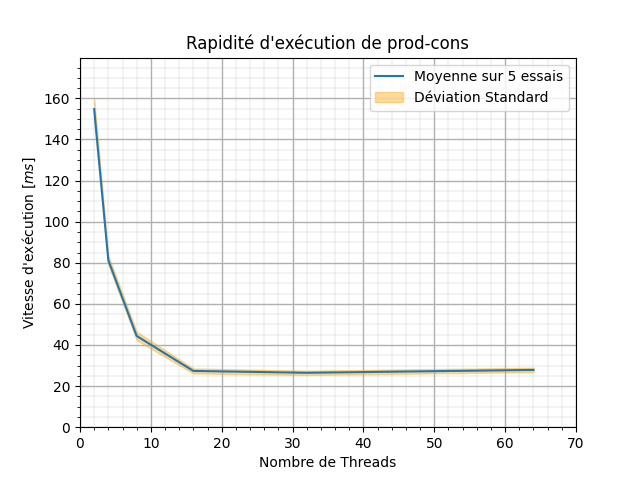
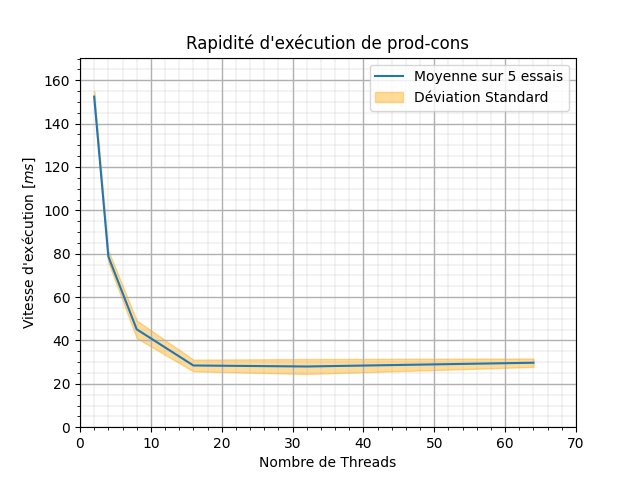
Tweak test

diff --git a/Inginious/P1/src/test-and-set.c b/Inginious/P1/src/test-and-set.c
@@ -32,7 +32,7 @@ void* myFunc(void* arg){
 
     for(int j = 0; j < 6400/NTHREADS; j++){
         lock();
-        for(int a = 0; a <1000000; a++){
+        for(int a = 0; a <10000; a++){
             // DO
         }
         unlock();

diff --git a/Inginious/P1/src/test-test-and-set.c b/Inginious/P1/src/test-test-and-set.c
@@ -48,7 +48,7 @@ void* myFunc(void* arg){
 
     for(int j = 0; j < 6400/NTHREADS; j++){
         lock();
-        for(int a = 0; a <1000000; a++){
+        for(int a = 0; a <10000; a++){
             // DO
         }
         unlock();

diff --git a/Inginious/S11/note.md b/Inginious/S11/note.md
@@ -1,0 +1,56 @@
+# TD 10
+
+- [TD 10](#td-10)
+  - [Exclusion mutuelle](#exclusion-mutuelle)
+    - [Safety ?](#safety-)
+    - [Liveness ?](#liveness-)
+    - [Ordre des Opérations Lock ?](#ordre-des-opérations-lock-)
+
+
+## Exclusion mutuelle
+
+```c
+int flag[2] = {0, 0};
+int turn = 0;
+
+void lock(int mon_id) {
+    flag[mon_id] = 1;
+    while (turn != mon_id) {
+        while (flag[1 - mon_id] == 1) {}
+        turn = mon_id;
+    }
+}
+
+void unlock(int mon_id) {
+    flag[mon_id] = 0;
+}
+```
+
+### Safety ?
+
+Pour que le `lock` s'effectue, je dois donc arriver à la fin de la fonction et passer 2 boucles `while`.
+- *Première*: on la passe si c'est notre tour et pour que les deux locks se réalisent il faut que `turn == 0` et `turn == 1`. Ce qui n'est pas possible !
+- *Second*: la condition `flag[1 - mon_id] == 1` check si l'autre thread veut s'exécuter et donc c'est son tour. Pour que `flag[1 - mon_id] == 0` il faut que unlock soit appelé !
+
+--> Thread pas safe. Si le thread 1 appelle unlock donc `flag = {0,0}` et `turn = 1`. Le thread 0 se réveille et arrive jusqu'à arriver au second `while` car `1 != 0` et `0 == 1`. Donc on arrive à la ligne `turn = mon_id`. Le Thread 0 s'endort et on appelle le thread 1 et donc `flag = {1, 1}` mais `turn == 1` donc on peut déjà finir le lock. Le thread 0 se réveille et reprend son exécution à `turn = mon_id` donc `turn = 0`. Les deux threads ont fini ensemble leur `lock`.
+
+### Liveness ?
+
+Est-ce qu'un thread peut ne pas s'exécuter dans un temps fini ?
+
+On a donc 2 boucles while.
+- *Première*: la condition `turn != mon_id`. Techniquement on a le thread 0 ou 1 qui va s'exécuter car `turn` n'est jamais indéfini mdr.
+- *Second*: on peut avoir `flag = {1,1}` ce qui est possible si on appelle `lock` maisss la première boucle va nous empêcher de boucler dessus.
+
+Il y a 4 cas de figure:
+1. $T_0$ et $T_1$ boucle sur le premier `while`. ❌
+2. $T_0$ et $T_1$ boucle sur le second `while`. ❌
+3. $T_0$ boucle sur le premier `while` et $T_1$ boucle sur le deuxième `while`. ❌
+4. $T_0$ boucle sur le deuxième `while` et $T_1$ boucle sur le premier `while`. ❌
+
+Donc la liveness est respectée.
+
+
+### Ordre des Opérations Lock ?
+
+Est-ce qu'on va libérer dans l'ordre des lock.
